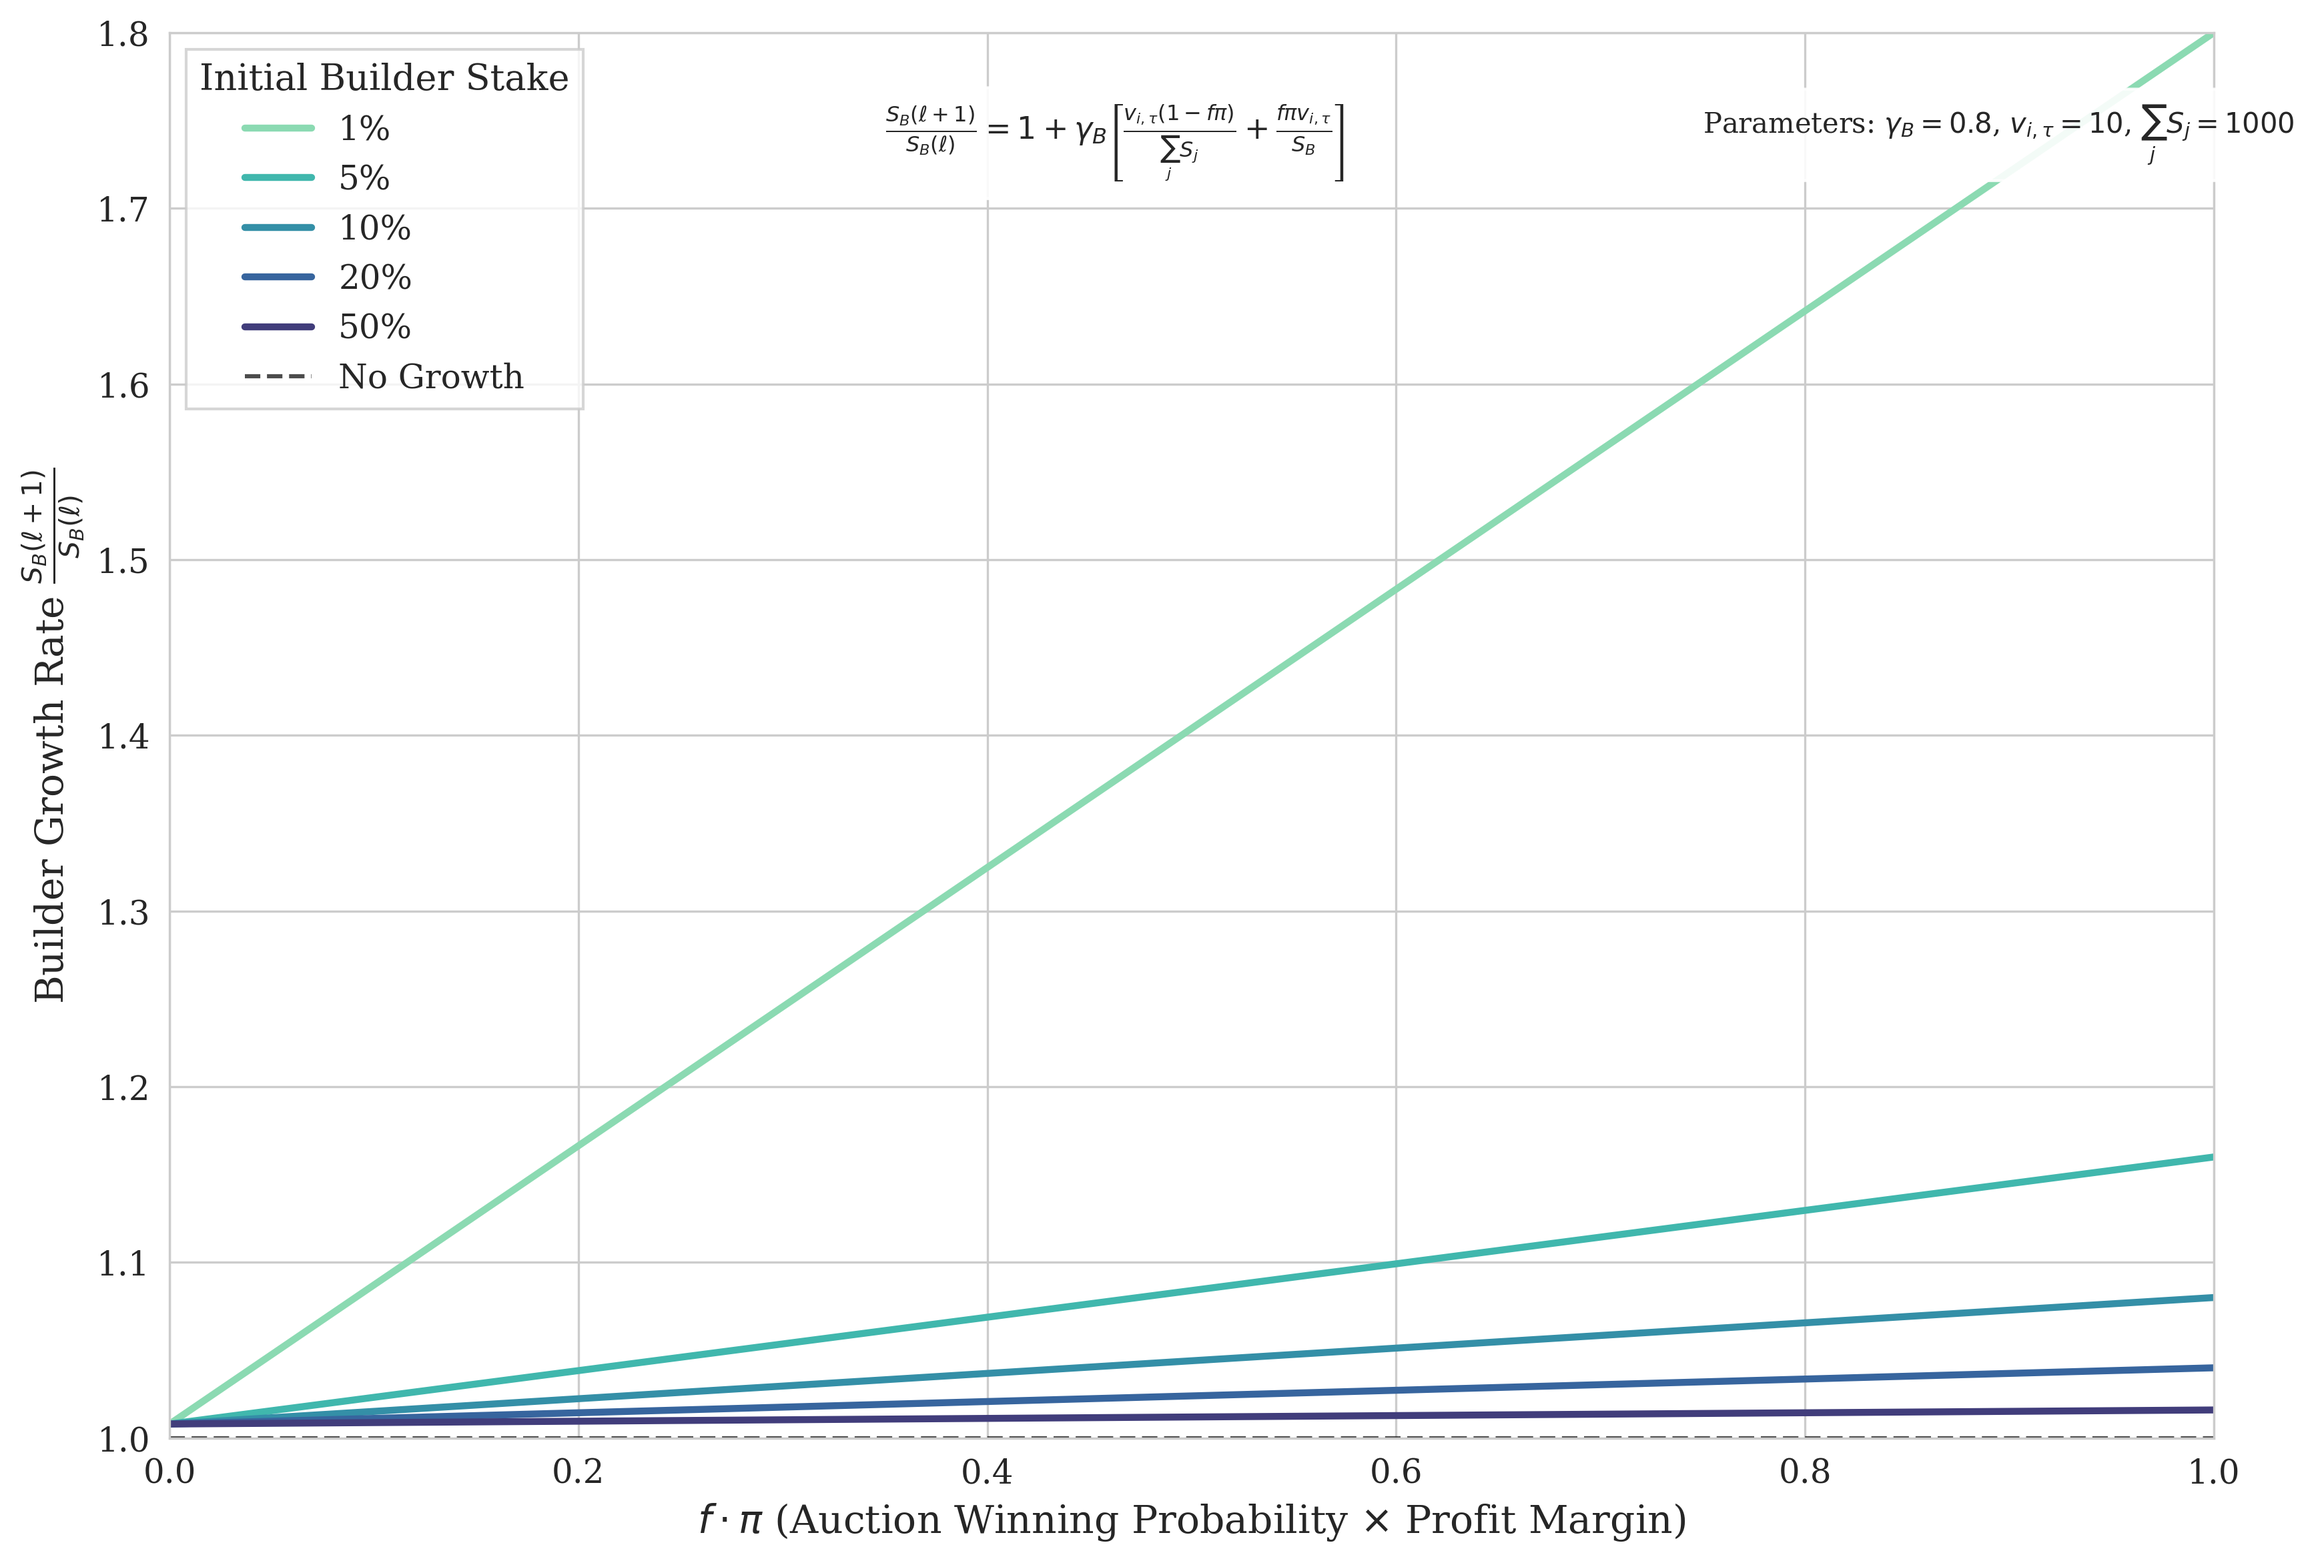
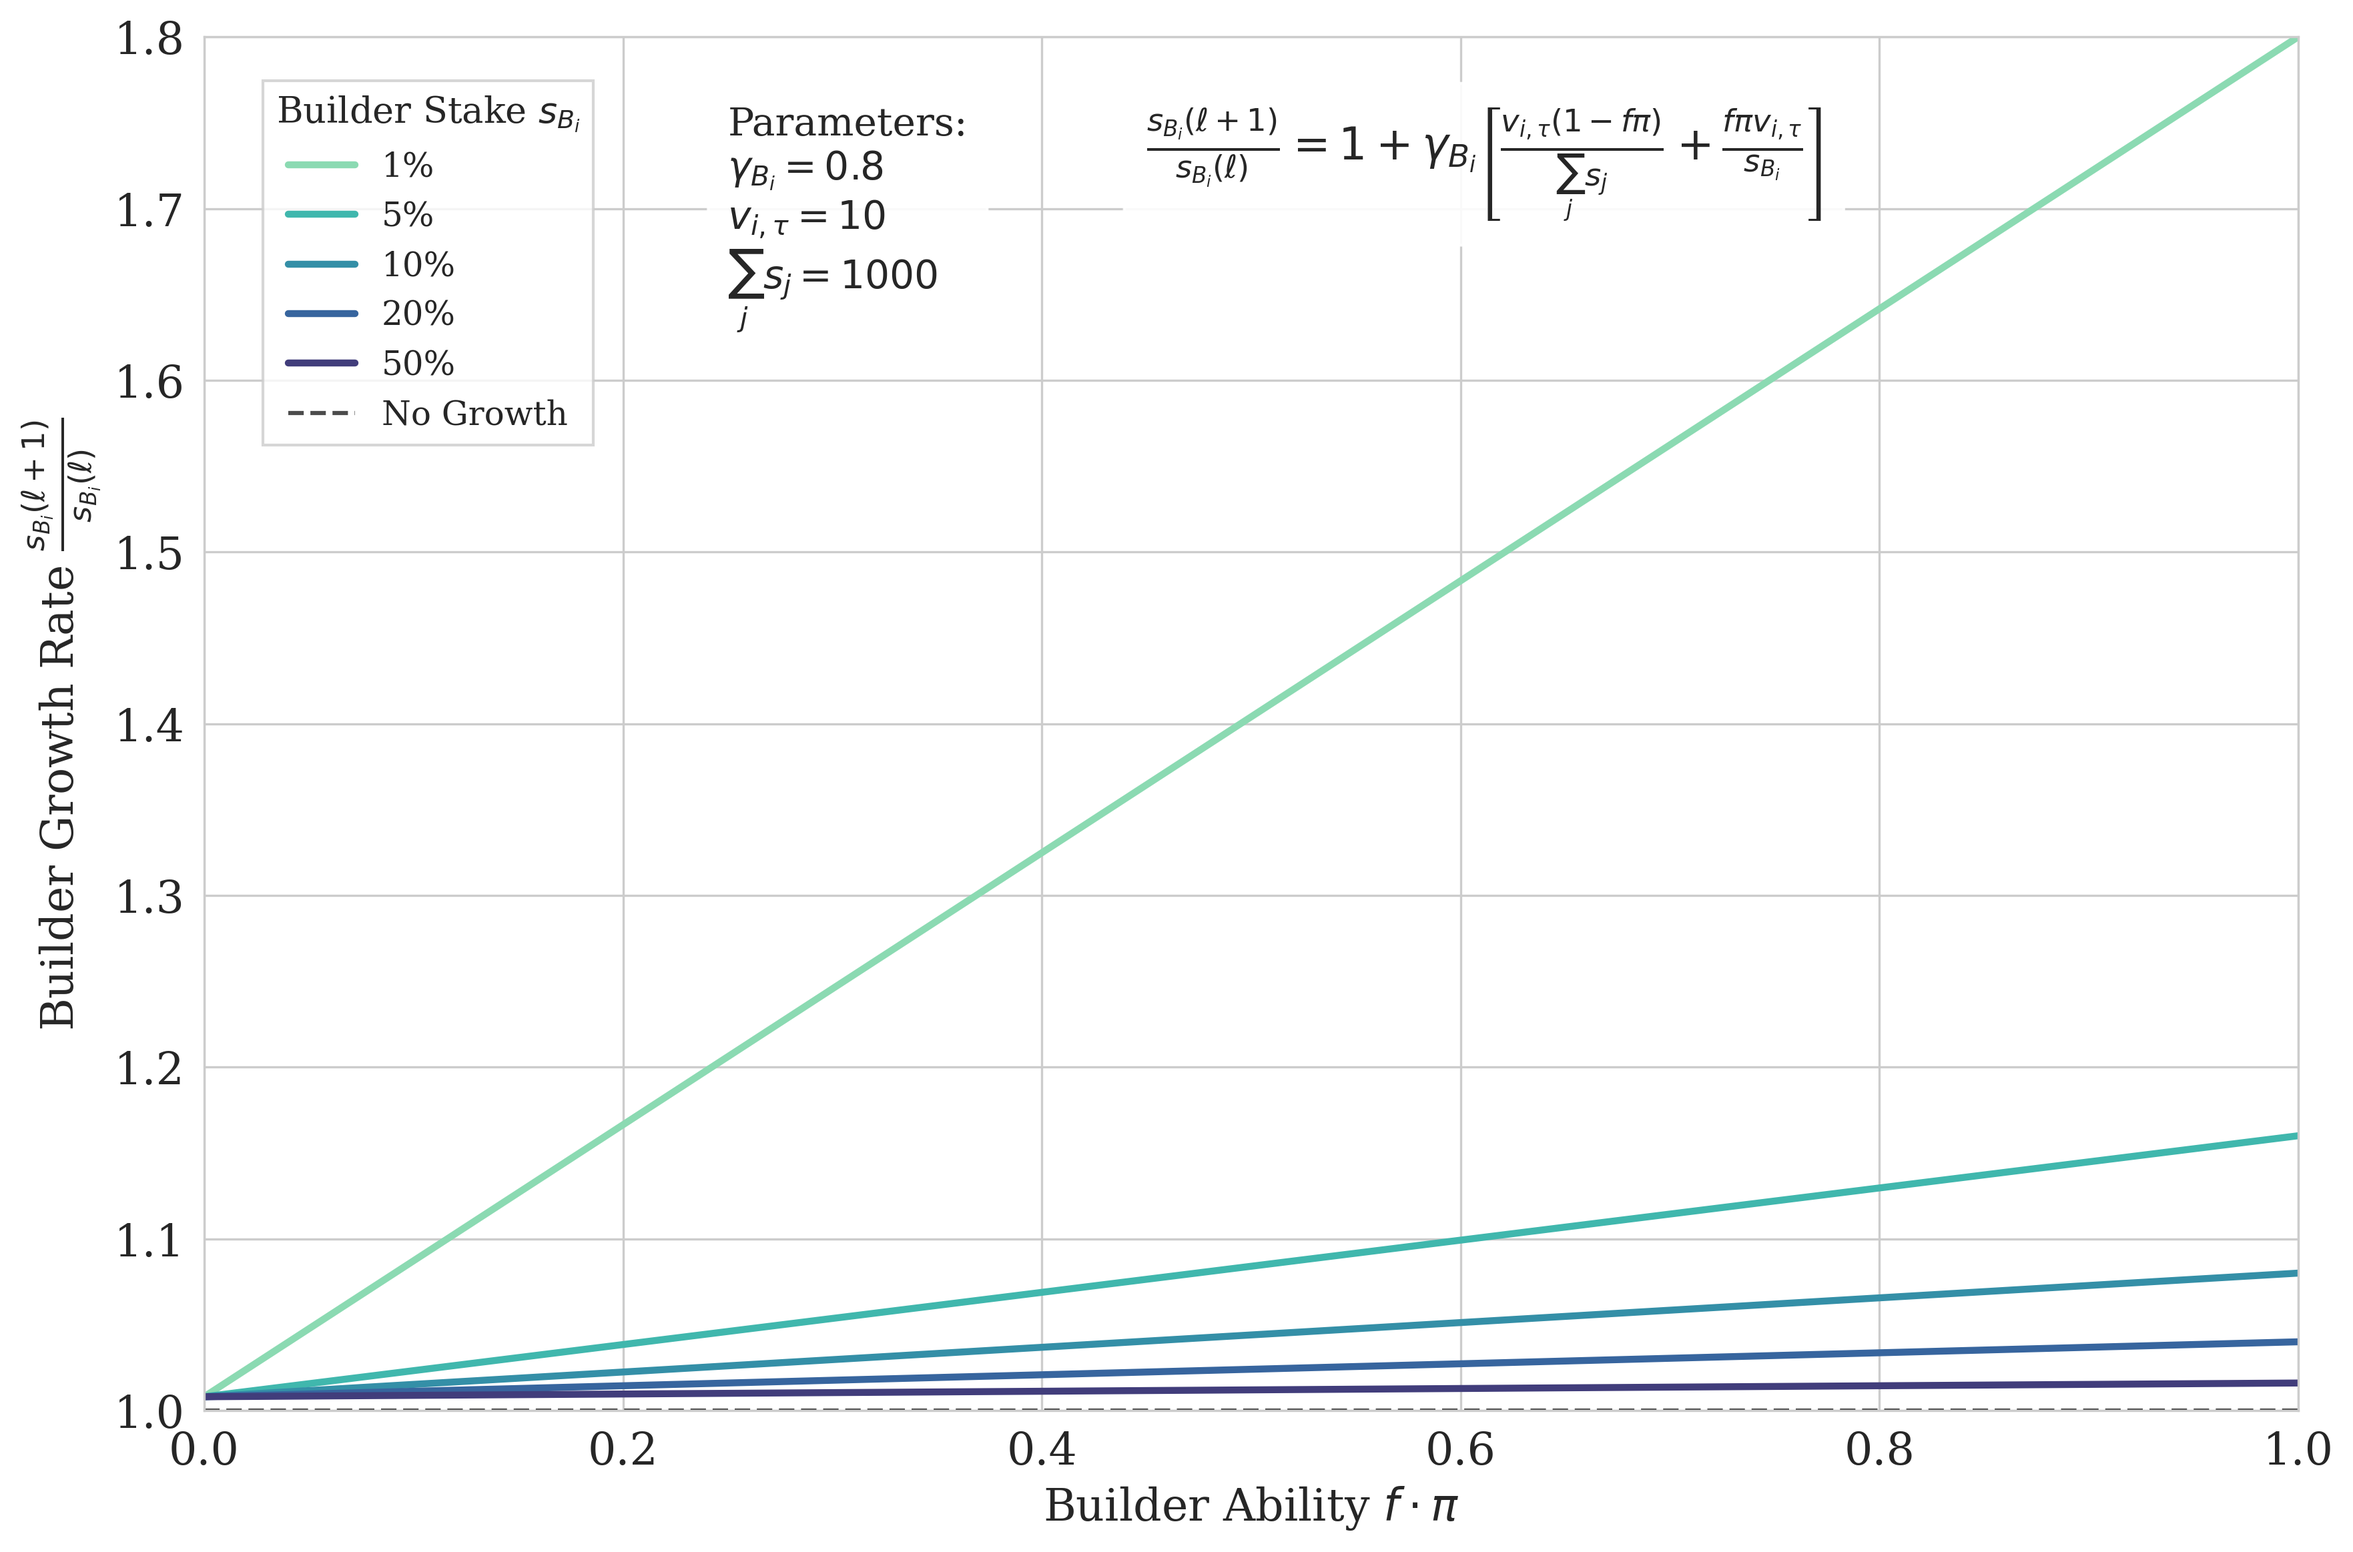
plot font

diff --git a/scripts/plot_builder_reinvestment_theory.py b/scripts/plot_builder_reinvestment_theory.py
@@ -8,11 +8,11 @@ sns.set_style("whitegrid")
 palette = sns.color_palette("mako_r", 6)
 rcParams.update({
     'font.family': 'serif',
-    'font.size': 12,
-    'axes.labelsize': 14,
-    'xtick.labelsize': 12,
-    'ytick.labelsize': 12,
-    'legend.fontsize': 12
+    'font.size': 14,
+    'axes.labelsize': 18,
+    'xtick.labelsize': 16,
+    'ytick.labelsize': 16,
+    'legend.fontsize': 14
 })
 
 def builder_growth_rate(f_pi, S_Bi, total_stake, gamma_Bi, v_i_T):
@@ -54,25 +54,29 @@ def create_builder_growth_theory_plot():
                label='No Growth')
     
     # Customize the plot
-    ax.set_xlabel(r'$f \cdot \pi$ (Auction Winning Probability $\times$ Profit Margin)', fontsize=14)
-    ax.set_ylabel(r'Builder Growth Rate $\frac{S_B(\ell+1)}{S_B(\ell)}$', fontsize=14)
+    ax.set_xlabel(r'Builder Ability $f \cdot \pi$', fontsize=16)
+    ax.set_ylabel(r'Builder Growth Rate $\frac{s_{B_i}(\ell+1)}{s_{B_i}(\ell)}$', fontsize=16)
     ax.set_xlim(0, 1)
     ax.set_ylim(1.0, 1.8)
     
-    # Legend in top left
-    ax.legend(title='Initial Builder Stake', title_fontsize=13, fontsize=12, 
-             loc='upper left', frameon=True, fancybox=False, shadow=False)
+    # Legend in top left with more space
+    ax.legend(title=r'Builder Stake $s_{B_i}$', title_fontsize=13, fontsize=12, 
+             loc='upper left', frameon=True, fancybox=False, shadow=False,
+             bbox_to_anchor=(0.02, 0.98))
     
-    # Formula annotation
-    formula_text = (r'$\frac{S_B(\ell+1)}{S_B(\ell)} = 1 + \gamma_B \left[\frac{v_{i,\tau}(1 - f\pi)}{\sum_j S_j} + \frac{f\pi v_{i,\tau}}{S_B}\right]$')
-    ax.text(0.35, 0.95, formula_text, transform=ax.transAxes, fontsize=11,
-            verticalalignment='top',
+    # Parameters (vertical list, before equation)
+    param_text = (r'Parameters:' + '\n' + 
+                 r'$\gamma_{B_i} = 0.8$' + '\n' + 
+                 r'$v_{i,\tau} = 10$' + '\n' + 
+                 r'$\sum_j s_j = 1000$')
+    ax.text(0.25, 0.95, param_text, transform=ax.transAxes, fontsize=14,
+            verticalalignment='top', 
             bbox=dict(boxstyle='round,pad=0.5', facecolor='white', alpha=0.9))
     
-    # Parameters
-    param_text = (r'Parameters: $\gamma_B = 0.8$, $v_{i,\tau} = 10$, $\sum_j S_j = 1000$')
-    ax.text(0.75, 0.95, param_text, transform=ax.transAxes, fontsize=10,
-            verticalalignment='top', 
+    # Formula annotation (after parameters, moved more to the left)
+    formula_text = (r'$\frac{s_{B_i}(\ell+1)}{s_{B_i}(\ell)} = 1 + \gamma_{B_i} \left[\frac{v_{i,\tau}(1 - f\pi)}{\sum_j s_j} + \frac{f\pi v_{i,\tau}}{s_{B_i}}\right]$')
+    ax.text(0.45, 0.95, formula_text, transform=ax.transAxes, fontsize=16,
+            verticalalignment='top',
             bbox=dict(boxstyle='round,pad=0.5', facecolor='white', alpha=0.9))
     
     plt.tight_layout()
